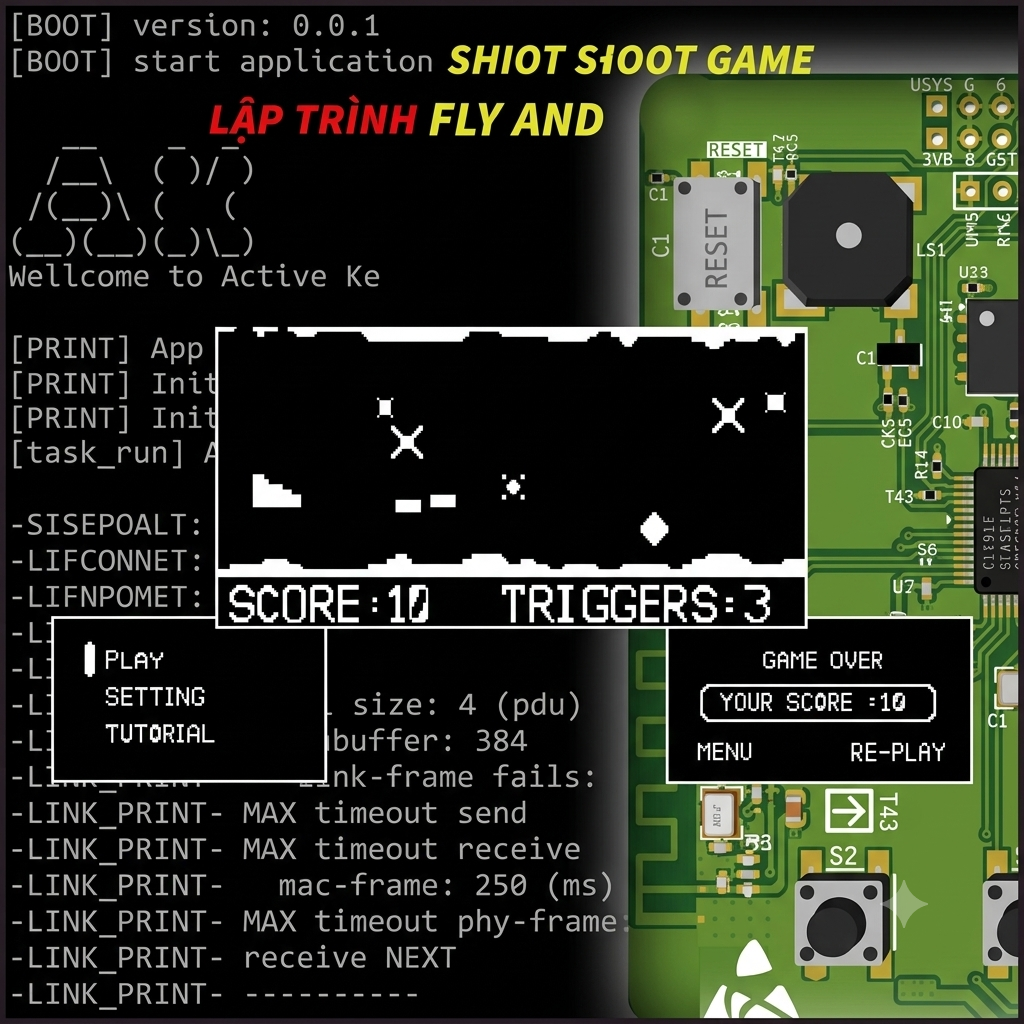
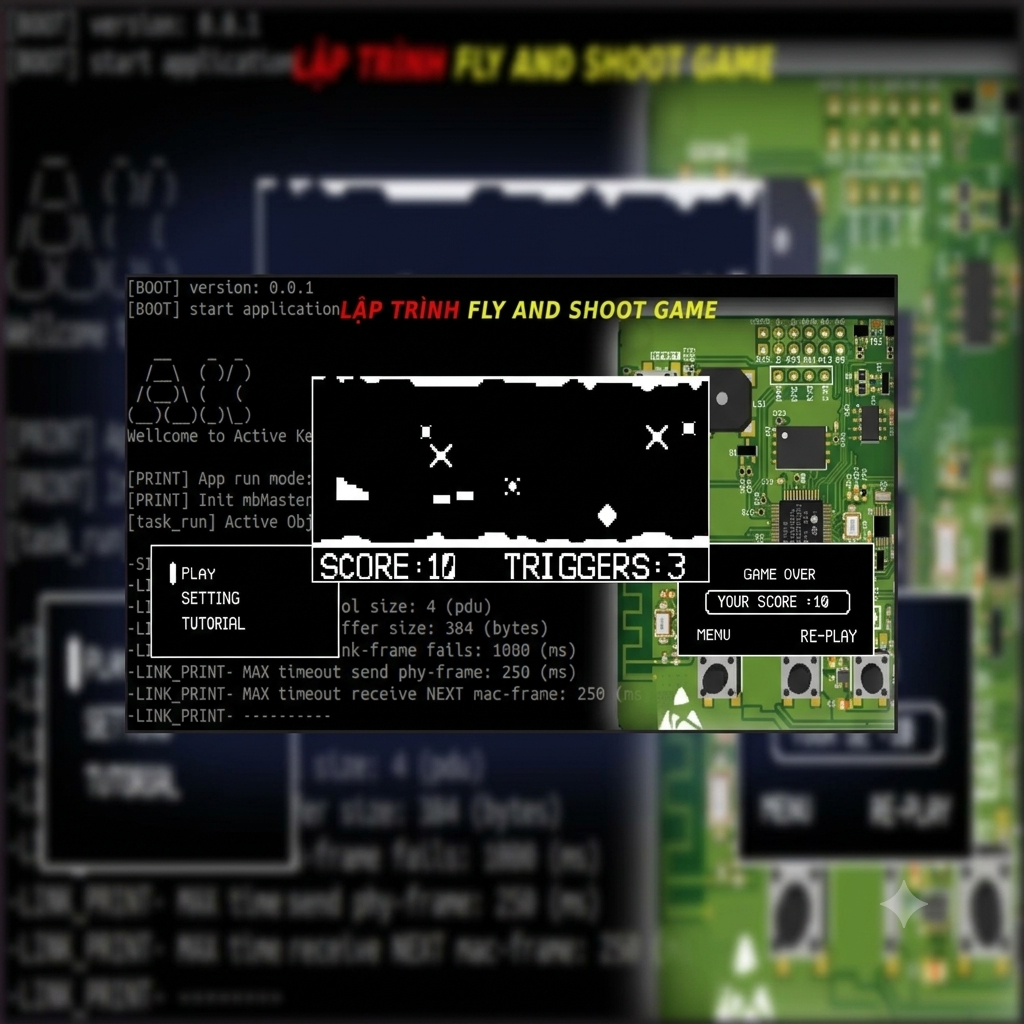
[REF] update new image 800x800

diff --git a/README.md b/README.md
@@ -13,7 +13,7 @@
 # FLY AND SHOOT Game trên AK-Embedded Base Kit
 
 <center>
-<img alt="FLY AND SHOOT BANNER" src="resource/images/banner_game.png" />
+<img alt="FLY AND SHOOT BANNER" src="resource/images/banner_game_800x800.png" />
 </center>
 
 <hr>
@@ -24,7 +24,7 @@
 
 Điểm nổi bật của Fly and Shoot trong dòng game AK:
 
-- **Bắn đạn phá vật cản:** Khác với các game AK chỉ né tránh, Fly and Shoot cho phép tàu bay bắn đạn để tiêu diệt quặng, bom và ghi điểm — tạo lối chơi chủ động.
+- **Bắn đạn phá vật cản:** Khác với các game AK chỉ né tránh, Fly and Shoot cho phép tàu bay bắn đạn để tiêu diệt quặng, bom và ghi điểm tạo lối chơi chủ động.
 - **Đạn dược có giới hạn:** Số đạn tối đa (1-5 viên) cấu hình được trong màn hình SETTING, buộc người chơi tính toán thời điểm bắn.
 - **Cơ chế Event-Driven đầy đủ:** Toàn bộ game (7 task, nhiều signal/timer) xây dựng trên nền tảng Task & Signal, phản ứng theo sự kiện một cách tự nhiên.
 - **Độ khó:** Chọn EASY, NORMAL, HARD trong cài đặt để tăng tốc độ và mật độ vật cản.
